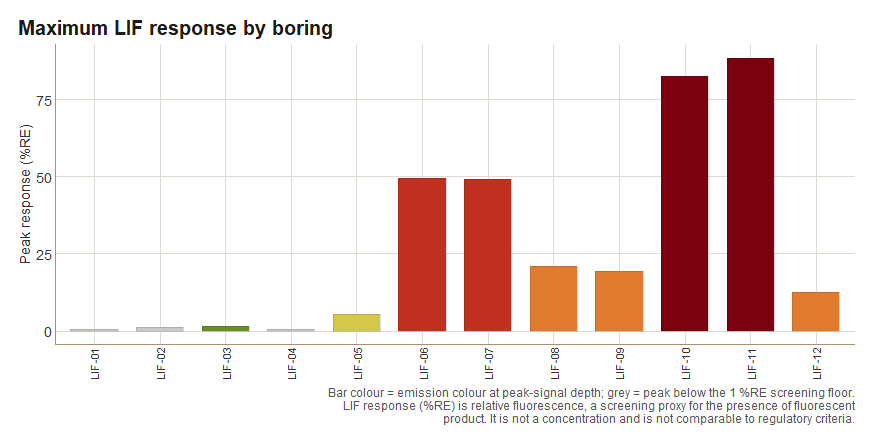
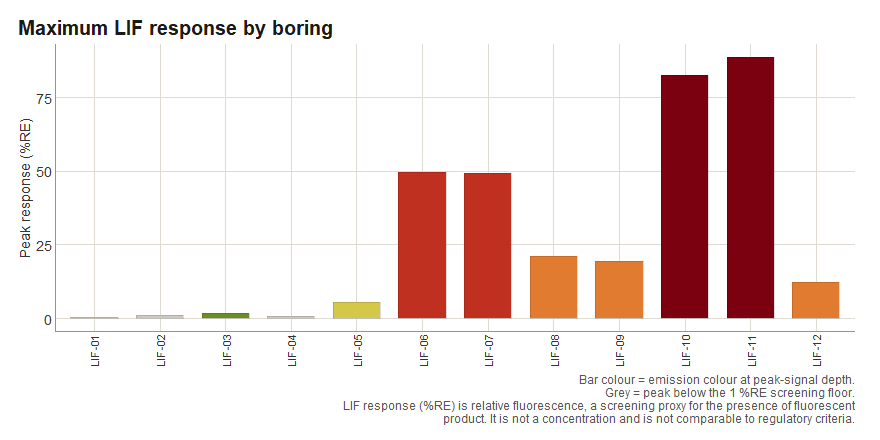
Refresh the docs and examples for the ported fixes
The two rounds of daktools ports changed what several figures claim about
the data, but the prose and the worked examples still described the old
behaviour. No code changed here.

README.md and man/figures/ were knitted on 2026-09-04, before marker area
and the size key, the hollow bars on chart_max_response(), the emission
colour on the facet sheet, and the NA break in area fills. Three of the
five figures changed on re-knitting, which is the measure of how stale
they were: the map in the README was still showing the 40 % diameter floor
with no key to read sizes against. The five-minute tour's edit-history
output moved with it (recorded windows and changed-row counts).

Help pages no longer cite daktools issue numbers. A lifr reader cannot
resolve them; the provenance belongs in NEWS.md, which already carries it.
Affects ?boring_map, ?qc_compare and ?lif_zero_below_threshold.

Examples now exercise what the ports added: ymin = NULL on lif_overview()
and qc_compare(), the red cross qc_compare() draws where value = NA left
nothing to plot, boring_map(fill_floor =), the per-boring audit rows from
lif_zero_below_threshold(borings =), the "failed" attribute on
export_site_charts(), the keep-window guard in lif_keep(), and the
per-boring water_table vector hp_correction() has always accepted but
never showed.

vignette("editing") covers the scoped audit rows, the outer-join depth
match, the NA crosses and ymin on a QC panel. vignette("reporting")
[…]

diff --git a/NEWS.md b/NEWS.md
@@ -1,5 +1,33 @@
 # lifr (development version)
 
+## Documentation and examples
+
+The prose and the worked examples now match the behaviour the two rounds of
+ports left behind. No code changed.
+
+- The README's figures and printed output were knitted in September, before
+  marker area, the size key, the hollow bars on `chart_max_response()`, the
+  emission colour on the facet sheet, and the `NA` break in area fills. The
+  map in the README showed the old diameter law with no key; it has been
+  re-knitted, along with the five-minute tour's edit-history output, whose
+  recorded windows and changed-row counts had moved with the ports.
+- Help pages no longer cite `daktools` issue numbers. A lifr reader cannot
+  resolve them; the provenance stays here in `NEWS.md`, where it belongs.
+  Affects `?boring_map`, `?qc_compare`, and `?lif_zero_below_threshold`.
+- Examples now exercise what the ports added: `ymin = NULL` on
+  `lif_overview()` and `qc_compare()`, the red cross `qc_compare()` draws
+  where `value = NA` left nothing to plot, `boring_map(fill_floor =)`, the
+  per-boring audit rows from `lif_zero_below_threshold(borings =)`, the
+  `"failed"` attribute on `export_site_charts()`, the keep-window guard in
+  `lif_keep()`, and the per-boring `water_table` vector that
+  `hp_correction()` has always accepted but never showed.
+- `vignette("editing")` covers the scoped audit rows, the outer-join depth
+  match, the `NA` crosses, and `ymin` on a QC panel.
+  `vignette("reporting")` covers how a correction's arguments are rendered
+  in the step log, that the lowest `response_thresholds` value is the
+  screening floor shared by the response map and the peak-response chart,
+  and what a failed optional step leaves in the log.
+
 ## Second round of daktools ports
 
 Six more defects carried over from the daktools October/November 2026 fixes

diff --git a/README.md b/README.md
@@ -97,18 +97,18 @@ lif <- lif_zero_shallow(lif, depth = 1)
 lif <- lif_editor(lif, "LIF-03", top = 20, bottom = 22)
 lif <- lif_keep(lif, "LIF-02", top = 6, bottom = 28)   # keep one clean window
 tail(edit_history(lif), 3)
-#>                    timestamp         fn boring top bottom value n_rows_changed
-#> 12 2026-09-04 14:40:07 -0600 lif_editor LIF-12   0      1     0              4
-#> 13 2026-09-04 14:40:07 -0600 lif_editor LIF-03  20     22     0              9
-#> 14 2026-09-04 14:40:07 -0600   lif_keep LIF-02   6     28     0             55
+#>                    timestamp         fn boring  top bottom value n_rows_changed
+#> 12 2026-11-20 15:17:21 -0700 lif_editor LIF-12 -Inf      1     0              4
+#> 13 2026-11-20 15:17:21 -0700 lif_editor LIF-03   20     22     0              9
+#> 14 2026-11-20 15:17:21 -0700   lif_keep LIF-02    6     28     0             51
 #>                                              notes
 #> 12                                            <NA>
 #> 13                                            <NA>
 #> 14 kept 6-28 ft; zeroed rows outside these windows
 ```
 
-`qc_compare()` shows exactly what changed, with the edited depths in
-red:
+`qc_compare()` shows exactly what changed, with the edited depths in red
+and a cross where an edit left no reading to plot:
 
 ``` r
 plots <- qc_compare(lif_import(demo, verbose = FALSE), lif)
@@ -144,6 +144,10 @@ head(qa$by_boring)
 ```
 
 ### Map the site
+
+Marker **area** is proportional to peak signal, read against the size
+key, and the fill is the emission colour recorded at the depth of that
+peak – the product signature. Hollow rings are non-detects.
 
 ``` r
 boring_map(lif, use_instrument_color = TRUE, site_name = "Demo site")
